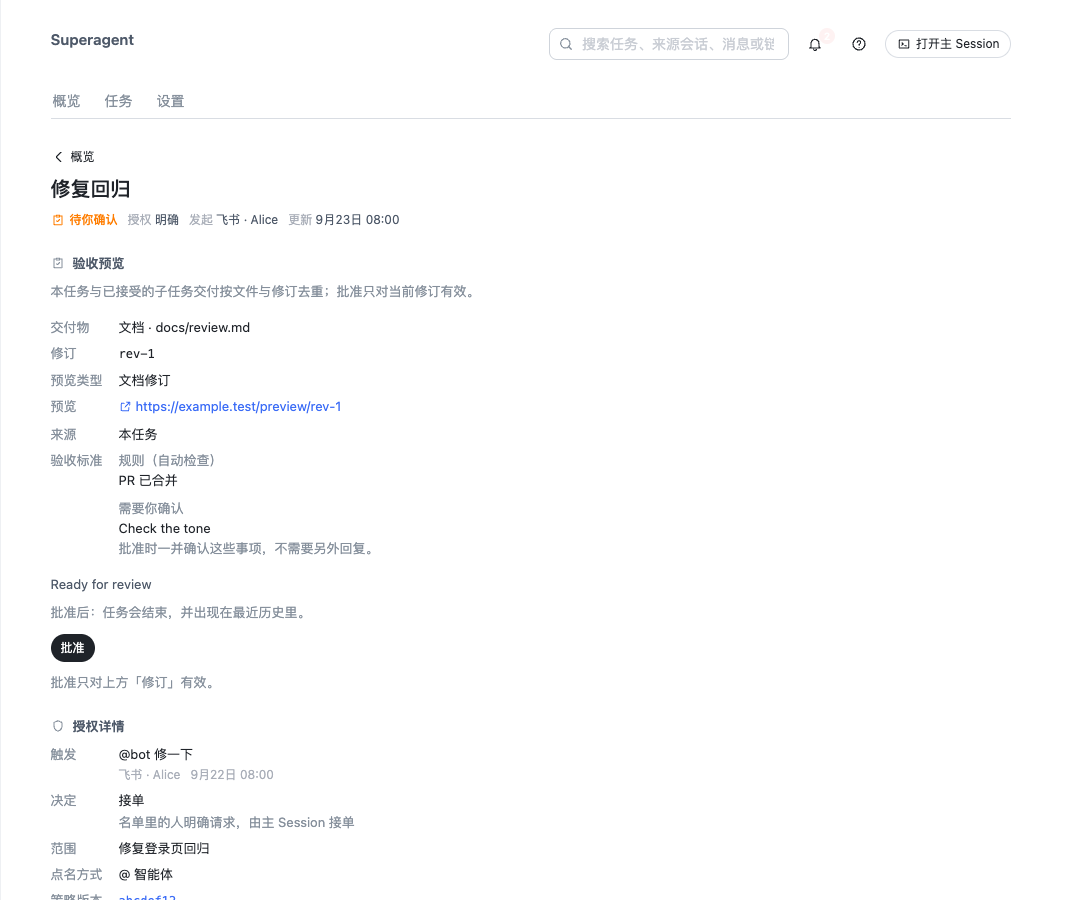
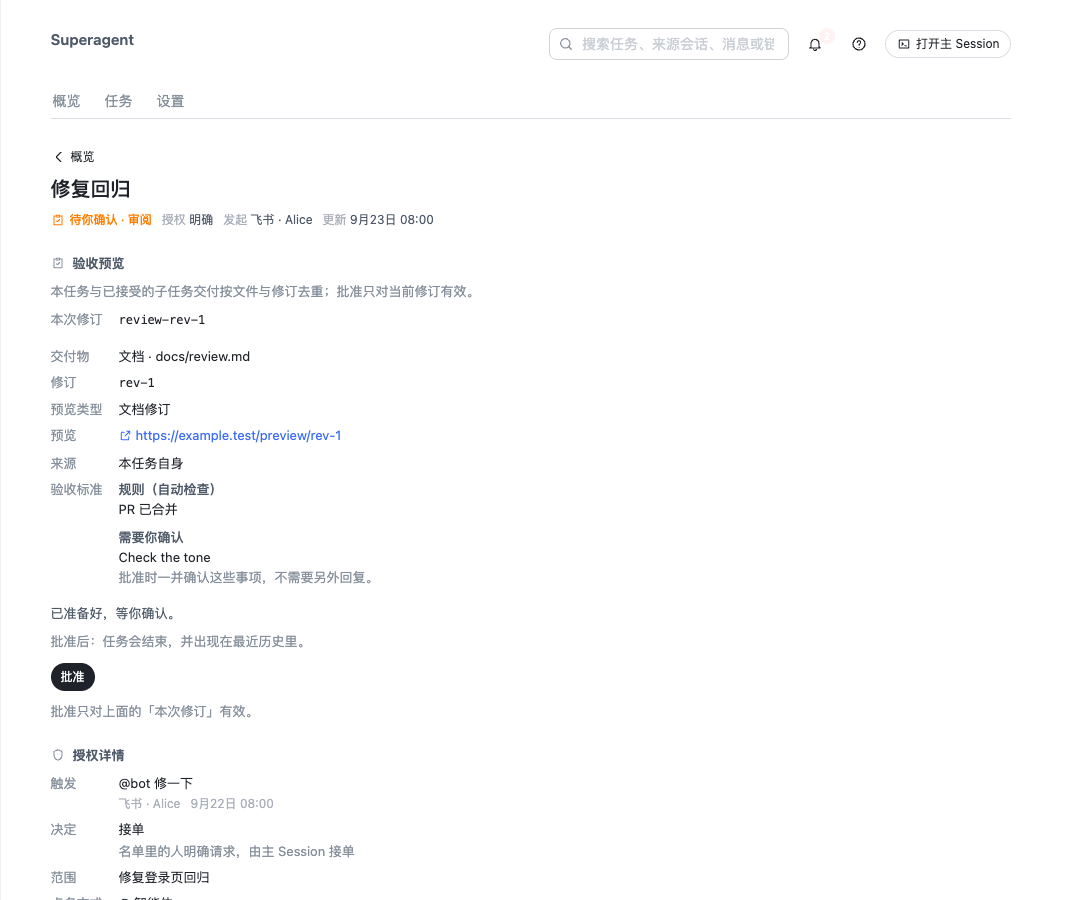
fix(panel): label the approval revision and mirror follow semantics

Changed region(s): [[0.0307, 0.3422, 0.3374, 1.0], [0.1227, 0.2178, 0.3987, 0.2489]]

diff --git a/tests/panel-walkthrough-gaps.spec.tsx b/tests/panel-walkthrough-gaps.spec.tsx
@@ -25,64 +25,117 @@ function reviewTicket() {
   server.ticketDetails.t1 = { ...server.ticketDetails.t1!, stage: 'person', action: 'review' as never, review }
 }
 
-function assertNoInternalIds() {
+function assertNoInternalIds(allowed: string[] = []) {
   const copy = text()
-  for (const leak of ['review-rev-1', 'worker-t1', 'ticket_', 'session_', 'assignmentId']) expect(copy).not.toContain(leak)
+  for (const leak of ['review-rev-1', 'worker-t1', 'ticket_', 'session_', 'assignmentId']) {
+    if (!allowed.includes(leak)) expect(copy).not.toContain(leak)
+  }
 }
 
-it('names the review state once and offers a visible way in from the overview card', async () => {
+function group(label: string) { return all('p').find(node => node.textContent === label)?.parentElement }
+
+it('uses the 021 section heading, one review name and a visible way in from the overview card', async () => {
   reviewTicket()
   await mount()
-  expect(text()).toContain(zh.ticketOpenReview)
-  expect(text()).toContain(zh['stage.review'])
-  for (const stale of ['待验收', '待审', '需我处理', '审查修订', 'artifact + revision']) expect(text()).not.toContain(stale)
+  // The section heading and filter split is 021 §5.1: 「需要你处理 N」 above, 「待我处理」 in the filter.
+  expect(text()).toContain('需要你处理')
+  expect(text()).not.toContain('需我处理')
+  expect(text()).toContain('查看并确认')
+  expect(text()).toContain('待你确认 · 审阅')
+  for (const stale of ['待验收', '待审', '审查修订', 'artifact + revision']) expect(text()).not.toContain(stale)
   assertNoInternalIds()
 })
 
-it('labels the bound revision, states the effect of approval, and separates rules from person confirmations', async () => {
+it('keeps the card title as a second way into the same task', async () => {
   reviewTicket()
   await mount()
-  await click(zh.ticketOpenReview)
-  expect(text()).toContain(zh.reviewRuleGroup)
-  expect(text()).toContain(zh.reviewHumanGroup)
-  expect(text()).toContain(zh.reviewHumanCovers)
-  expect(text()).toContain(zh.reviewEffectEnd)
-  expect(text()).toContain(zh.reviewBindingHint)
-  expect(text()).toContain(zh['acceptanceRule.pr.merged'])
+  await click('修复回归')
+  expect(text()).toContain('验收预览')
+})
+
+it('uses 「待我处理」 for the task filter and 「需要你处理」 for the attention tag', async () => {
+  reviewTicket()
+  await mount()
+  await click('任务')
+  expect(text()).toContain('待我处理')
+  expect(text()).toContain('需要你处理')
+  expect(text()).not.toContain('需我处理')
+})
+
+it('labels the approval revision, states the effect, and separates rules from person confirmations', async () => {
+  reviewTicket()
+  await mount()
+  await click('查看并确认')
+  expect(text()).toContain('本次修订')
+  expect(text()).toContain('批准只对上面的「本次修订」有效。')
+  expect(text()).toContain('本任务与已接受的子任务交付按文件与修订去重；批准只对当前修订有效。')
+  expect(text()).toContain('批准后：任务会结束，并出现在最近历史里。')
+  expect(text()).toContain('规则（自动检查）')
+  expect(text()).toContain('需要你确认')
+  expect(text()).toContain('批准时一并确认这些事项，不需要另外回复。')
+  expect(text()).toContain('PR 已合并')
   expect(text()).not.toContain('pr.merged')
   expect(text()).toContain('Check the tone')
-  // The unlabelled prefix of the approval binding used to sit beside the button; the key-value row keeps the revision.
-  expect(text()).not.toContain('review-r')
+  // The approval row is labelled; the old bare prefix beside the button is gone, even though the full id stays on E2.
+  const labels = all('dt').map(node => node.textContent)
+  const at = labels.indexOf('本次修订')
+  expect(at).toBeGreaterThanOrEqual(0)
+  expect(all('dd')[at]?.textContent).toBe('review-rev-1')
+  expect(all('span').some(node => node.textContent === 'review-r')).toBe(false)
   expect(text()).toContain('rev-1')
-  assertNoInternalIds()
+  // The person confirmation sits under its own group, not among the automatic rules.
+  expect(group('规则（自动检查）')?.textContent).toContain('PR 已合并')
+  expect(group('规则（自动检查）')?.textContent).not.toContain('Check the tone')
+  expect(group('需要你确认')?.textContent).toContain('Check the tone')
+  assertNoInternalIds(['review-rev-1'])
 })
 
-it('says a pending close takes effect after approval, instead of promising that the task ends immediately', async () => {
+it('says a pending close takes effect after approval, and wins over an open follow', async () => {
   reviewTicket()
   server.ticketDetails.t1 = { ...server.ticketDetails.t1!, pendingEnd: { by: 'thread', outcome: 'merged',
-    at: '2026-09-22T00:00:00Z' } }
+    at: '2026-09-22T00:00:00Z' }, threads: [{ ...server.ticketDetails.t1!.threads[0]!, anchor: { own: true } }] }
   await mount()
-  await click(zh.ticketOpenReview)
-  expect(text()).toContain('已发生的PR 已合并会生效')
+  await click('查看并确认')
+  expect(text()).toContain('已记录的「PR 已合并」会生效')
+  expect(text()).not.toContain('继续等待关联来源')
 })
 
-it('says an open follow still has to end before the task can end', async () => {
+it('counts an open follow when the task opened none', async () => {
+  reviewTicket()
+  server.ticketDetails.t1 = { ...server.ticketDetails.t1!,
+    threads: [{ ...server.ticketDetails.t1!.threads[0]!, anchor: { own: false } }] }
+  await mount()
+  await click('查看并确认')
+  expect(text()).toContain('任务会继续等待关联来源结束；来源结束后任务才结束。')
+})
+
+it('ends once the only follows are closed', async () => {
+  reviewTicket()
+  server.ticketDetails.t1 = { ...server.ticketDetails.t1!,
+    threads: [{ ...server.ticketDetails.t1!.threads[0]!, anchor: { own: false, closed: { at: '2026-09-22T00:00:00Z', outcome: 'merged' } } }] }
+  await mount()
+  await click('查看并确认')
+  expect(text()).toContain('批准后：任务会结束，并出现在最近历史里。')
+})
+
+it('says an own open follow still has to end before the task can end', async () => {
   reviewTicket()
   server.ticketDetails.t1 = { ...server.ticketDetails.t1!,
     threads: [{ ...server.ticketDetails.t1!.threads[0]!, anchor: { own: true } }] }
   await mount()
-  await click(zh.ticketOpenReview)
-  expect(text()).toContain(zh.reviewEffectFollows)
+  await click('查看并确认')
+  expect(text()).toContain('任务会继续等待关联来源结束；来源结束后任务才结束。')
 })
 
 it('keeps the same copy after approval and removes the action, the effect line and the binding hint', async () => {
   reviewTicket()
   await mount()
-  await click(zh.ticketOpenReview)
+  await click('查看并确认')
   await click(zh.approve)
   expect(text()).toContain('已于')
   expect(all('button').some(button => button.textContent === zh.approve)).toBe(false)
-  expect(text()).not.toContain(zh.reviewEffectEnd)
-  expect(text()).not.toContain(zh.reviewBindingHint)
-  assertNoInternalIds()
+  expect(text()).not.toContain('批准后：')
+  expect(text()).not.toContain('批准只对上面的「本次修订」有效。')
+  expect(text()).toContain('本次修订')
+  assertNoInternalIds(['review-rev-1'])
 })

diff --git a/packages/dsh/src/client/locales.ts b/packages/dsh/src/client/locales.ts
@@ -126,14 +126,14 @@ const TEXT = {
   'activityStatus.queued': ['排队', 'Queued'],
   'activityStatus.working': ['进行中', 'In progress'],
   'activityStatus.idle': ['等待触发', 'Waiting for a Trigger'],
-  'activityStatus.review': ['待你确认', 'Waiting for you'],
+  'activityStatus.review': ['待你确认 · 审阅', 'Waiting for you · Review'],
   'activityStatus.answer': ['待回答', 'Awaiting answer'],
   'activityStatus.delivery': ['输入未送达', 'Input not delivered'],
   'activityStatus.blocked': ['阻塞', 'Blocked'],
   'activityStatus.failed': ['失败', 'Failed'],
   'activityStatus.done': ['完成', 'Done'],
   'activityFilter.all': ['全部', 'All'],
-  'activityFilter.attention': ['需要你处理', 'Needs you'],
+  'activityFilter.attention': ['待我处理', 'Waiting for you'],
   'activityFilter.running': ['进行中', 'In progress'],
   'activityFilter.failed': ['失败', 'Failed'],
   'activityObject.ticket': ['工单', 'Ticket'],
@@ -477,7 +477,7 @@ const TEXT = {
   pendingTickets: ['需要你处理', 'Needs you'],
   approvalsTitle: ['待我批准', 'Waiting for my approval'],
   approvalsHint: ['每条只批准列出的动作与修订；批准为较低等级只会授予更小的动作。', 'Each decision covers only the Action and revision shown; approving a lower level grants less.'],
-  entryNeeds: ['待我处理', 'Waiting for you'],
+  entryNeeds: ['需要你处理', 'Needs you'],
   entryNeedsHint: ['批准、回答或重试后，它就会离开这里。', 'Approve, answer or retry, and it leaves this list.'],
   entryNeedsNone: ['现在没有等你决定或验收的事。', 'Nothing is waiting for your decision or review.'],
   entryRunning: ['正在跑', 'Running'],
@@ -875,7 +875,7 @@ const TEXT = {
   stopHint: ['停止后当前派工结束，Session 和执行目录保留；停止收回授权，之后线程里的消息不再恢复它，要继续需要重新接单。', 'Stopping ends the current Assignment; its Session and directory stay. Stopping withdraws its Mandate: later messages on its Threads do not resume it, and continuing needs a new accept.'],
   idleHint: ['执行器结束了当前回合，没有提出问题；这些工单订阅的线程收到新触发时继续。', 'The Executor ended its turn without asking anything; a new Trigger on a subscribed Thread resumes it.'],
   'stage.answer': ['待回答', 'Awaiting answer'],
-  'stage.review': ['待你确认', 'Waiting for you'],
+  'stage.review': ['待你确认 · 审阅', 'Waiting for you · Review'],
   ticketOpenReview: ['查看并确认', 'Open and confirm'],
   'stage.blocked': ['被卡住', 'Blocked'],
   'stage.failed': ['未完成', 'Unfinished'],
@@ -891,19 +891,20 @@ const TEXT = {
   reviewCriteria: ['验收标准', 'Acceptance criteria'],
   reviewRuleGroup: ['规则（自动检查）', 'Rules (checked automatically)'],
   reviewHumanGroup: ['需要你确认', 'Needs your confirmation'],
+  reviewApprovalRevision: ['本次修订', 'Approval revision'],
   reviewHumanCovers: ['批准时一并确认这些事项，不需要另外回复。', 'Approving also confirms these; no separate reply is needed.'],
   reviewEffect: ['批准后：{effect}', 'After you approve: {effect}'],
   reviewEffectEnd: ['任务会结束，并出现在最近历史里。', 'the Task ends and appears in Recent history.'],
-  reviewEffectPendingEnd: ['已发生的{outcome}会生效，任务按它结束。', 'the recorded {outcome} takes effect and the Task ends with it.'],
+  reviewEffectPendingEnd: ['已记录的「{outcome}」会生效，任务按它结束。', 'the recorded {outcome} takes effect and the Task ends with it.'],
   reviewEffectFollows: ['任务会继续等待关联来源结束；来源结束后任务才结束。', 'the Task keeps waiting for its linked Source and ends after that Source finishes.'],
-  reviewBindingHint: ['批准只对上方「修订」有效。', 'Approval applies only to the Revision above.'],
+  reviewBindingHint: ['批准只对上面的「本次修订」有效。', 'Approval applies only to the Approval revision above.'],
   reviewHumanConfirm: ['需人工确认', 'Needs a person\'s confirmation'],
   reviewWindowedRule: ['{rule}（{hours} 小时内）', '{rule} (within {hours} hours)'],
   reviewAccepted: ['{by} 已于 {time} 批准这个修订。', 'Approved by {by} at {time}.'],
   reviewUnavailable: ['无法审核：这个任务的交付物没有可渲染的预览。', 'Cannot review: this Ticket\'s deliverable has no preview to render.'],
   reviewAggregateHint: ['本任务与已接受的子任务交付按文件与修订去重；批准只对当前修订有效。', 'This Ticket and its accepted child deliveries are deduplicated by file and revision; approval applies only to the current revision.'],
   reviewSources: ['来源', 'Sources'],
-  reviewSourceRoot: ['本任务', 'This Ticket'],
+  reviewSourceRoot: ['本任务自身', 'This Task itself'],
   reviewSourceChild: ['子任务', 'Child Ticket'],
   reviewParentAccepted: ['父任务负责人 {by} 已接受这次子交付；这不等于人工确认。', 'The parent owner {by} accepted this child delivery; that is not a person\'s confirmation.'],
   reviewHumanAccepted: ['{by} 已于 {time} 确认。', 'Confirmed by {by} at {time}.'],
@@ -1457,7 +1458,7 @@ const TEXT = {
   'userError.deliverableMissing': ['这次审核没有交付物；请先提交带预览的交付物。', USER_ERRORS.deliverableMissing[1]],
   'userError.deliverablePreviewMissing': ['审核必须有交付物预览；没有预览，人无法判断改了什么。', USER_ERRORS.deliverablePreviewMissing[1]],
   'userError.deliverablePreviewStale': ['预览针对修订 {preview}，而交付物在修订 {revision}。', USER_ERRORS.deliverablePreviewStale[1]],
-  'userError.reviewNotReady': ['只有待验收的工单可以批准。', USER_ERRORS.reviewNotReady[1]],
+  'userError.reviewNotReady': ['只有待你确认的任务可以批准。', USER_ERRORS.reviewNotReady[1]],
   'userError.reviewStale': ['审查内容已经变化；请按当前修订 {revision} 重新批准。', USER_ERRORS.reviewStale[1]],
   'userError.reviewNotApproved': ['这个交付还有需人工确认的条目；批准修订 {revision} 后才能结束。', USER_ERRORS.reviewNotApproved[1]],
   'userError.evalFinished': ['评估 {eval} 已结束，或已被之后的评估取代；请对这个触发当前的评估做决定。', USER_ERRORS.evalFinished[1]],

diff --git a/packages/dsh/src/client/ticket.tsx b/packages/dsh/src/client/ticket.tsx
@@ -83,16 +83,20 @@ function ReviewSection({ ticket, onChanged }: { ticket: TicketPageView; onChange
   const sourceLabel = (source: { ticketId: string }) => source.ticketId === ticket.id ? t('reviewSourceRoot') : t('reviewSourceChild')
   const confirmationText = (criterion: NonNullable<TicketPageView['review']>['confirmations'][number]['criterion']) => criterion.reason
     ? reasonLabel(t, criterion.reason) : t('reviewHumanConfirm')
-  // The end state follows the data the page already has: a pending close wins, then an open follow, else the approval ends it.
+  // Mirror `Tickets.followsDone`: own follows win when present, otherwise every follow counts. A pending close wins first.
+  const anchors = ticket.threads.flatMap(thread => thread.anchor ? [thread.anchor] : [])
+  const own = anchors.filter(anchor => anchor.own)
+  const counted = own.length > 0 ? own : anchors
   const approvalEffect = ticket.pendingEnd
     ? t('reviewEffectPendingEnd', { outcome: valueLabel(t, 'outcome', ticket.pendingEnd.outcome) })
-    : ticket.threads.some(thread => thread.anchor?.own && !thread.anchor.closed) ? t('reviewEffectFollows')
+    : counted.some(anchor => !anchor.closed) ? t('reviewEffectFollows')
       : t('reviewEffectEnd')
   if (!review.deliverables.length) return <Section title={t('reviewSection')} icon="review">
     <Hint>{t('reviewUnavailable')}</Hint>
   </Section>
   return <Section title={t('reviewSection')} icon="review">
     <Hint>{t('reviewAggregateHint')}</Hint>
+    <KeyValues rows={[[t('reviewApprovalRevision'), <span className="dt-mono">{review.reviewRevision}</span>]]} />
     {review.deliverables.map(deliverable => {
       const confirmations = review.confirmations.filter(item => deliverable.sources.some(source =>
         source.ticketId === item.source.ticketId && source.assignmentId === item.source.assignmentId))
@@ -110,11 +114,11 @@ function ReviewSection({ ticket, onChanged }: { ticket: TicketPageView; onChange
           // Rules and person confirmations answer different questions; grouping keeps the latter from reading as an instruction.
           ...rules.length > 0 || humans.length > 0 ? [[t('reviewCriteria'), <div className="dt-review-criteria">
             {rules.length > 0 && <div>
-              <p className="dt-hint">{t('reviewRuleGroup')}</p>
+              <p className="dt-hint dt-review-group-label">{t('reviewRuleGroup')}</p>
               <ul className="dt-plain-list">{rules.map((rule, at) => <li key={`rule-${at}`}>{rule}</li>)}</ul>
             </div>}
             {humans.length > 0 && <div>
-              <p className="dt-hint">{t('reviewHumanGroup')}</p>
+              <p className="dt-hint dt-review-group-label">{t('reviewHumanGroup')}</p>
               <ul className="dt-plain-list">{humans.map((human, at) => <li key={`human-${at}`}>{human}</li>)}</ul>
               <p className="dt-hint">{t('reviewHumanCovers')}</p>
             </div>}

diff --git a/tests/marks.spec.ts b/tests/marks.spec.ts
@@ -11,7 +11,7 @@ it('marks each Ticket stage by whom it waits for, and an ended Ticket by its out
     { stage: 'working' }, { stage: 'idle' }] as const
   expect(marks.map(stage => { const { label, tone, dot, icon } = ticketMark(t, { ...stage, ended: undefined }); return [label, tone, dot,
     icon] })).toEqual([
-    ['待回答', 'warning', 'warning', 'ask'], ['待你确认', 'warning', 'warning', 'review'], ['被卡住', 'warning', 'warning', 'blocked'],
+    ['待回答', 'warning', 'warning', 'ask'], ['待你确认 · 审阅', 'warning', 'warning', 'review'], ['被卡住', 'warning', 'warning', 'blocked'],
     ['未完成', 'danger', 'error', 'alert'], ['输入未送达', 'warning', 'warning', 'inbox'], ['排队中', 'neutral', 'idle', 'queue'],
     ['执行中', 'info', 'ongoing', 'running'], ['等待新触发', 'neutral', 'idle', 'clock']])
   const ended = (['completed', 'merged', 'closed', 'dropped', 'stopped'] as const).map(outcome => ticketMark(t, { stage: 'ended',

diff --git a/tests/panel-overview.spec.tsx b/tests/panel-overview.spec.tsx
@@ -11,7 +11,7 @@ it('opens with the three zones and keeps health as a folded E2 path', async () =
   await mount()
   expect(tab(zh['tab.overview']).getAttribute('aria-selected')).toBe('true')
   expect(all('[role="tab"]').map(tab => tab.textContent)).toEqual(['概览', '任务', '来源', '触发', '评估', '执行', '设置'])
-  expect(all('.dt-section-title').map(title => title.textContent)).toEqual(['待我处理4', '正在跑1任务详情 ›', '最近历史1详情 ›',
+  expect(all('.dt-section-title').map(title => title.textContent)).toEqual(['需要你处理4', '正在跑1任务详情 ›', '最近历史1详情 ›',
     '过去 24 小时详情 ›', '运行健康'])
   // Waiting for a person first, then the running Ticket and the recently ended one; each carries its own stage.
   expect(all('.dt-cards .dt-ticket-stage').map(item => item.textContent)).toEqual(['待回答', '执行中', '人工停止'])

diff --git a/packages/dsh/src/client/client.css b/packages/dsh/src/client/client.css
@@ -525,6 +525,7 @@ a.dt-btn, a.dt-btn:hover { text-decoration: none; }
 .dt-review-deliverable + .dt-review-deliverable { border-top: 0.5px solid var(--dsw-alias-border-l3); }
 .dt-review-criteria { display: flex; flex-direction: column; gap: 8px; min-width: 0; }
 .dt-review-criteria .dt-hint { margin: 0; }
+.dt-review-group-label { color: var(--dsw-alias-label-secondary); font-weight: 500; }
 .dt-review-binding { margin-top: 2px; }
 /* A task selected in either surface narrows Events; the chip says which one and can be cleared. */
 .dt-events-selection { display: flex; align-items: center; justify-content: space-between; gap: 8px; min-width: 0; padding: 6px 8px; border: 0.5px solid var(--dsw-alias-border-l3); border-radius: 8px; background: var(--dsw-alias-bg-layer-2); }

diff --git a/tests/novice-walkthrough.spec.tsx b/tests/novice-walkthrough.spec.tsx
@@ -36,7 +36,8 @@ it('lets a first-time person approve the current delivery from the overview with
   expect(text()).toContain(zh['acceptanceRule.pr.merged'])
   expect(text()).toContain('Check the tone')
   expect(text()).not.toContain('artifact + revision')
-  expect(text()).not.toContain('review-r')
+  expect(text()).toContain('本次修订')
+  expect(text()).toContain('review-rev-1')
   await click(zh.approve)
 
   expect(server.requests).toContainEqual({ path: 'tickets/t1/approve', method: 'POST', body: { reviewRevision: 'review-rev-1' } })

diff --git a/docs/runbooks/novice-walkthrough.md b/docs/runbooks/novice-walkthrough.md
@@ -56,25 +56,38 @@ pnpm vitest run tests/novice-walkthrough.spec.tsx tests/panel-walkthrough-gaps.s
 
 ## G1–G6 修复记录（本 PR）
 
-只改文案与入口可达性，不改交互模型、不新增数据或权限；术语按 [023 §3](../023-ux-first-batch.zh.md#3-术语) 的改写表（源自 021 §5）统一为「待你确认 / 需要你处理 / 任务」，内部标识仍只在 E2/E3。动作按钮按 021 §5.3 的「查看并批准 / 退回」保留「批准」。
+只改文案与入口可达性，不改交互模型、不新增数据或权限；术语按 [023 §3](../023-ux-first-batch.zh.md#3-术语) 的改写表（源自 021 §5）把默认面统一到「任务」与「待你确认 · 审阅」；概览区块与筛选按 021 §5.1 分别用「需要你处理 N」和「待我处理」。动作按钮按 021 §5.3 的「查看并批准 / 退回」保留现有「批准」，新增「退回」不在本单。内部标识仍只在 E2/E3。
 
 | # | 位置 | 改前 | 改后 | 用户卡点 | 覆盖 |
 | --- | --- | --- | --- | --- | --- |
-| G1 | 概览 · 待我处理卡片 | 卡片标题「修复回归」是唯一看起来可点的文字，没有动作提示 | 标题仍是点击目标；动作区新增「查看并确认」，打开同一工单页 | 新人只能猜标题可点 | `tests/panel-walkthrough-gaps.spec.tsx` 第 1 条、`tests/novice-walkthrough.spec.tsx` |
-| G2 | 概览状态、任务列表状态/筛选、审查提示 | 「待验收」「待审」「需我处理」「审查修订」 | 「待你确认」「需要你处理」；去掉「审查修订」，提示改为「批准只对当前修订有效」 | 同一件事有多种叫法 | `tests/panel-walkthrough-gaps.spec.tsx` 第 1 条、`tests/marks.spec.ts` |
-| G3 | 审查区「批准」按钮下方 | 裸 `review-r`（`reviewRevision` 前 8 位，无标签） | 删掉裸 id；按钮下方写「批准只对上方「修订」有效。」，键值行保留「修订 rev-1」 | 不知道它绑定哪次批准 | 第 2 条断言不出现 `review-r`、保留键值行 |
-| G4 | 审查区批准按钮上方 | 没有批准后说明 | 「批准后：…」按 `pendingEnd`、仍跟随来源、其他三种情况各给一句结果 | 不知道批准会结束任务还是继续等 PR | 第 2–4 条覆盖三种结果 |
-| G5 | 审查区提示 | 「本工单与已接受子工单的交付按 artifact + revision 去重；批准绑定当前审查修订。」 | 「本任务与已接受的子任务交付按文件与修订去重；批准只对当前修订有效。」 | 内部术语读不懂 | 第 2 条断言新文案存在、旧术语不存在 |
-| G6 | 验收标准 | 规则与人工确认混在一列，如「PR 已合并」「Check the tone」并列 | 分成「规则（自动检查）」与「需要你确认」，并说明批准时一并确认、不需另回复 | 把人工确认当成给自己的指令 | 第 2 条断言两组标签和覆盖说明 |
+| G1 | 概览 · 需要你处理卡片 | 卡片标题「修复回归」是唯一看起来可点的文字，没有动作提示 | 标题仍是点击目标；动作区新增「查看并确认」，打开同一任务页 | 新人只能猜标题可点 | `tests/panel-walkthrough-gaps.spec.tsx` 第 1/2 条、`tests/novice-walkthrough.spec.tsx` |
+| G2 | 概览状态/区块、任务列表状态/筛选、审查提示 | 「待验收」「待审」「需我处理」「审查修订」 | 「待你确认 · 审阅」；区块「需要你处理」，筛选「待我处理」，行标签「需要你处理」；去掉「审查修订」，提示改为「批准只对当前修订有效」 | 同一件事有多种叫法 | `tests/panel-walkthrough-gaps.spec.tsx` 第 1/3 条、`tests/marks.spec.ts`、`tests/panel-tasks.spec.tsx` |
+| G3 | 审查区「批准」上方 | 裸 `review-r`（`reviewRevision` 前 8 位，无标签） | 加「本次修订 review-rev-1」键值行；按钮下方写「批准只对上面的「本次修订」有效。」 | 不知道它绑定哪次批准 | 第 4 条断言键值行、完整 id 与提示，不再出现独立裸前缀 |
+| G4 | 审查区批准按钮上方 | 没有批准后说明 | 「批准后：…」按 `pendingEnd`、有 own follow、只有非 own follow、无 follow 四种数据给出结果；pending 文案为「已记录的「…」会生效」 | 不知道批准会结束任务还是继续等关联来源 | 第 5–8 条覆盖四种结果与优先级 |
+| G5 | 审查区提示 | 「本工单与已接受子工单的交付按 artifact + revision 去重；批准绑定当前审查修订。」 | 「本任务与已接受的子任务交付按文件与修订去重；批准只对当前修订有效。」 | 内部术语读不懂 | 第 4 条断言新文案存在、旧术语不存在 |
+| G6 | 验收标准 | 规则与人工确认混在一列，如「PR 已合并」「Check the tone」并列 | 分成「规则（自动检查）」与「需要你确认」，并说明批准时一并确认、不需另回复 | 把人工确认当成给自己的指令 | 第 4 条断言两组标签、归属与覆盖说明 |
 
 ### 视觉证据
 
-同场景、1440×900、light、zh-CN、同一合成 fixture；Before 取本分支的起点 `main@0d24be7`（首次走查之后的面板），After 取本分支构建。截图只截 Superagent 面板，任务标题、负责人、来源与账号均为脱敏 fixture，不使用私有飞书内容。
+同场景、1440×900 视口、light、zh-CN、同一合成 fixture；只截 Superagent 面板（1075×900，文件实际 1076×900）。Before 取本分支的起点 `main@0d24be7`（首次走查之后的面板），After 取本分支构建。任务标题、负责人、来源、账号与交付摘要均为脱敏 fixture，不使用私有飞书内容；`Check the tone` 是 fixture 里“人写的确认事项”，不是面板文案。
 
 | 场景 | Before | After |
 | --- | --- | --- |
-| 概览 · 待我处理：同一张待确认卡片 | [before-overview.png](../images/walkthrough-gaps/before-overview.png) | [after-overview.png](../images/walkthrough-gaps/after-overview.png) |
-| 工单页 · 验收预览：修订、批准后果、规则/人工确认分组 | [before-review.png](../images/walkthrough-gaps/before-review.png) | [after-review.png](../images/walkthrough-gaps/after-review.png) |
+| 概览 · 需要你处理：同一张待确认卡片 | [before-overview.png](../images/walkthrough-gaps/before-overview.png) | [after-overview.png](../images/walkthrough-gaps/after-overview.png) |
+| 任务列表 · 待我处理筛选与行状态 | [before-tasks.png](../images/walkthrough-gaps/before-tasks.png) | [after-tasks.png](../images/walkthrough-gaps/after-tasks.png) |
+| 任务页 · 验收预览：本次修订、批准后果、规则/人工确认分组 | [before-review.png](../images/walkthrough-gaps/before-review.png) | [after-review.png](../images/walkthrough-gaps/after-review.png) |
+
+### 修复后 10 秒复核
+
+同一条路径，After 构建的实际界面原文：
+
+| 步 | After 实际看到 | 10 秒内说出的下一步 | 判定 |
+| --- | --- | --- | --- |
+| 1 | 「需要你处理」；卡片「待你确认 · 审阅 修复回归」；动作「查看并确认」「停止」 | 「点『查看并确认』或标题」 | 通过（agent 与独立首次使用复核） |
+| 2 | 「本次修订 review-rev-1」；「批准后：任务会结束，并出现在最近历史里」；「规则（自动检查）」「需要你确认」 | 「点『批准』」 | 通过（agent 与独立首次使用复核） |
+| 3 | 「已于 … 批准这个修订」；「批准」按钮消失 | 「完成了，不用再点」 | 通过（agent） |
+
+这一步仍不是独立新人复跑：复核者看过截图和 diff，可能受实现者选择影响。C4.5 的通过判定仍按下一节由没看过本记录的人执行。
 
 ## 复跑与判定
 
